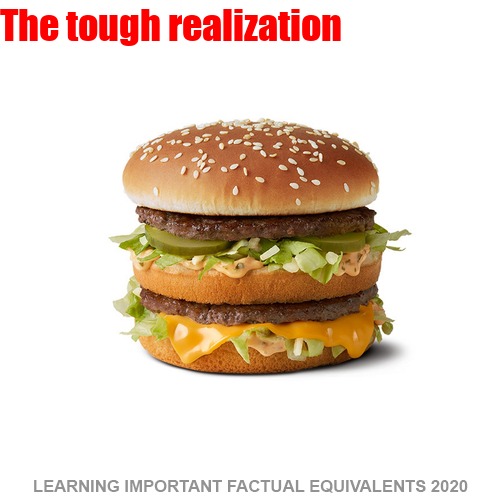
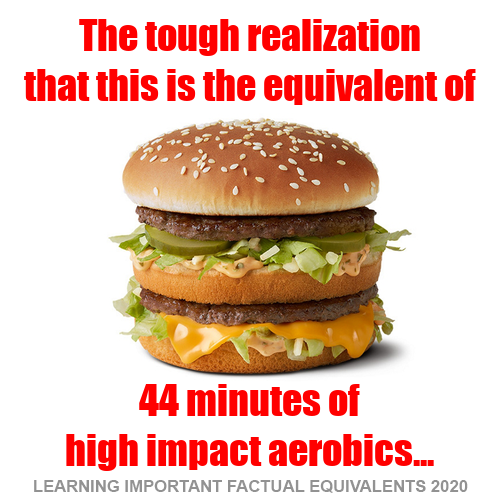
Completed initial test card. Will likely rewrite as a module.

Changed region(s): [[0.0, 0.0, 0.96, 0.21], [0.12, 0.87, 0.87, 0.96], [0.27, 0.75, 0.72, 0.84]]

diff --git a/test.py b/test.py
@@ -1,38 +1,68 @@
-'''
-from PIL import Image, ImageDraw, ImageFont
- 
-img = Image.new('RGB', (100, 30), color = (73, 109, 137))
- 
-
-
-'''
 from tkinter import *
 import PIL
 from PIL import ImageTk, Image, ImageDraw, ImageFont
 
 root=Tk()
-Fdimage = Image.open("images\\t-mcdonalds-Big-Mac.jpg")
-Bgimage = Image.open("images\WhiteBG.png")
 
 MemeHt = 500
 MemeWt = 500
 ImagepadX = 10
+TextpadY = 10
+MemeLinespacing = 1.1
+defaultFdImg = "images\\t-mcdonalds-Big-Mac.jpg"
+defaultBG = "images\WhiteBG.png"
+
+Fdimage = Image.open(defaultFdImg)
+Bgimage = Image.open(defaultBG)
+
+# Open a window the size of the Preset Meme height and width
 canvas=Canvas(root, height=MemeHt, width=MemeWt)
+# Calculate the desired size of the Food image by removing the horizontal padding
 Fdwidth = MemeWt - (ImagepadX * 2)
+# Get the width and height of the Food image
 FdimageW, FdimageH = Fdimage.size
+# Calculate the % adjustment to get to the desired width
 wpercent = (Fdwidth / float(FdimageW))
-print (wpercent)
+# Calculate the height adjustment based on the same conversion for width
 hsize = int((float(Fdimage.size[1]) * float(wpercent)))
+# Resize the entire food image
 Fdimage = Fdimage.resize((Fdwidth, hsize), PIL.Image.ANTIALIAS)
+# Center the image by calculating the difference between the height of the meme card and the food image then dividing by 2
 vpos = int((MemeHt - hsize) / 2)
-print ("hsize=",hsize)
-print ("vpos=",vpos)
 # Paste in food item
 Bgimage.paste(Fdimage,(ImagepadX,vpos))
 imageBd = ImageDraw.Draw(Bgimage)
 myFont = ImageFont.truetype('fonts/impact.ttf', 40)
-imageBd.text((0, 0), "The tough realization", font=myFont, fill =(255, 0, 0))
+# LINE 1
+Mstr1="The tough realization"
+M1Wt,M1Ht=myFont.getsize(Mstr1)
+#imageBd.text((0, 0), Mstr1, font=myFont, fill =(255, 0, 0))
+#imageBd.text(((MemeWt - M1Wt)/2,(MemeHt - M1Ht)/2), Mstr1, font=myFont, fill =(255, 0, 0))
+imageBd.text(((MemeWt - M1Wt)/2,TextpadY), Mstr1, font=myFont, fill =(255, 0, 0))
 
+# LINE 2
+Mstr2="that this is the equivalent of"
+M2Wt,M2Ht=myFont.getsize(Mstr2)
+#imageBd.text((0, 0), Mstr1, font=myFont, fill =(255, 0, 0))
+imageBd.text(((MemeWt - M2Wt)/2,(TextpadY + int(M1Ht * MemeLinespacing))), Mstr2, font=myFont, fill =(255, 0, 0))
+
+# LINE 3
+Mstr3="44 minutes of"
+#Mstr3="30 minutes of"
+#Mstr3="63 minutes of"
+M3Wt,M3Ht=myFont.getsize(Mstr3)
+#imageBd.text((0, 0), Mstr1, font=myFont, fill =(255, 0, 0))
+imageBd.text(((MemeWt - M3Wt)/2,(int(MemeHt * 0.75))), Mstr3, font=myFont, fill =(255, 0, 0))
+
+# LINE 4
+Mstr4="high impact aerobics..."
+#Mstr4="jogging..."
+#Mstr4="active Sex..."
+M4Wt,M4Ht=myFont.getsize(Mstr4)
+#imageBd.text((0, 0), Mstr1, font=myFont, fill =(255, 0, 0))
+imageBd.text(((MemeWt - M4Wt)/2,(int(MemeHt * 0.75)+(M1Ht * MemeLinespacing))), Mstr4, font=myFont, fill =(255, 0, 0))
+
+# Move image to frame
 photo = ImageTk.PhotoImage(Bgimage)
 
 item4 = canvas.create_image(250, 250, image=photo)
@@ -40,10 +70,10 @@ canvas.pack(side = TOP, expand=True, fill=BOTH, anchor=CENTER)
 
 Bgimage.save('test.png')
 
-
 root.mainloop()
 
 '''
+# ADDITIONAL TRANSFORMATION EXAMPLES
 im = Image.open("images\\t-mcdonalds-Big-Mac.jpg")
 print(im.format, im.size, im.mode)
 #im.show()
